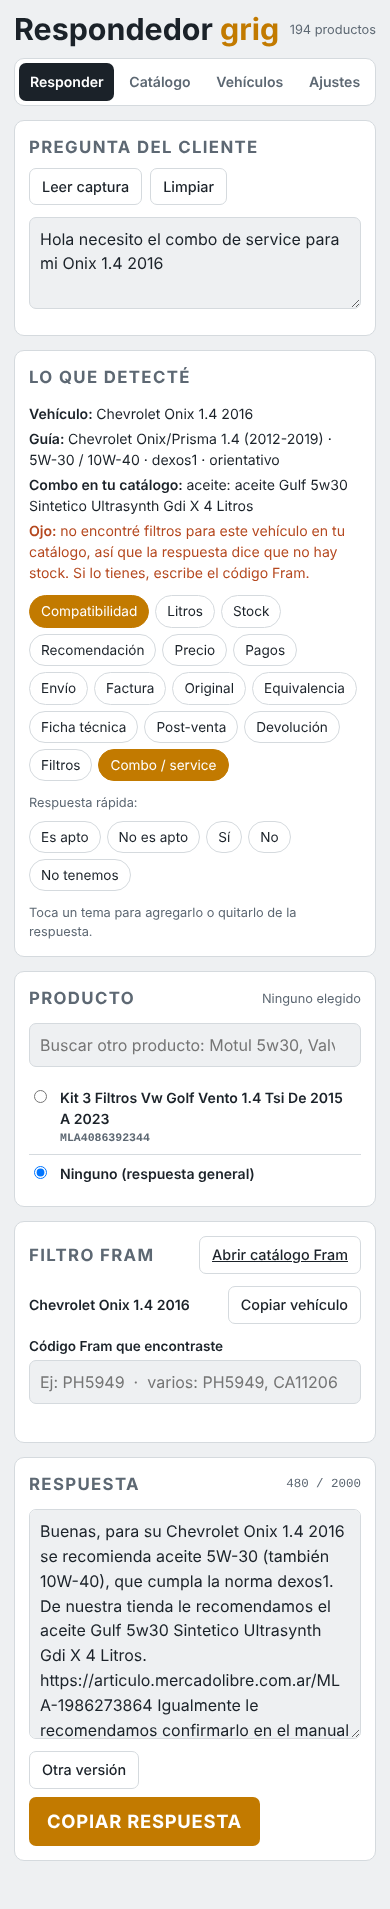
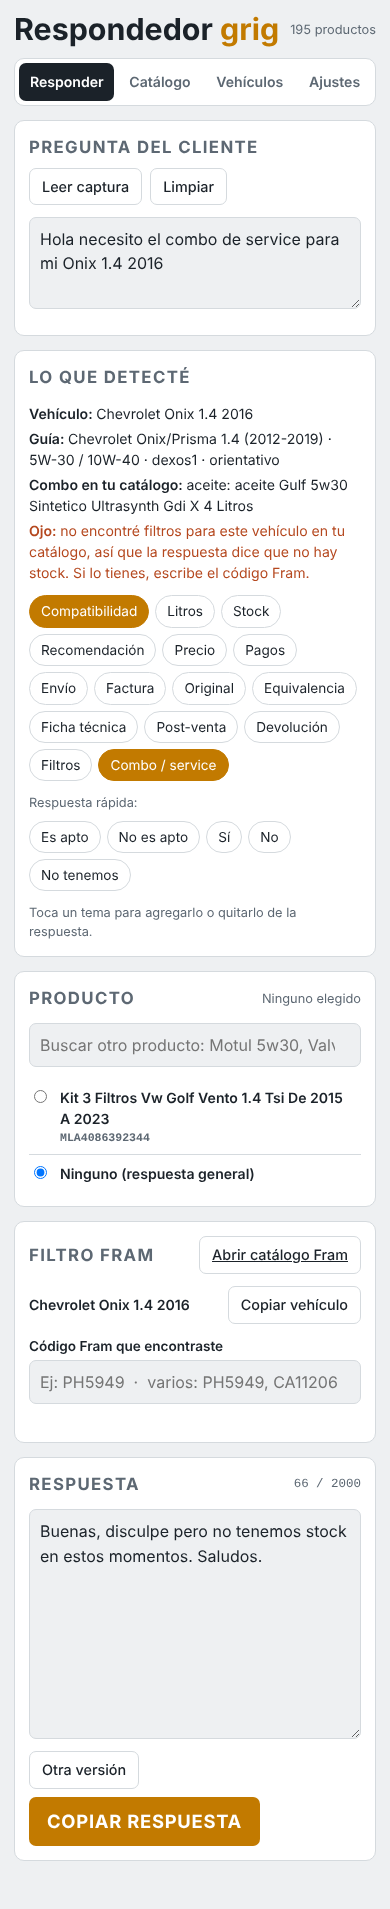
Respuesta única cuando no hay el producto: 'Buenas, disculpe pero no tenemos stock en estos momentos. Saludos.'
Se usa para marcas que no se venden, presentaciones que no existen, filtros que
no están en el catálogo con todos los datos del vehículo, códigos Fram no
publicados y el botón 'No tenemos'.

Claude-Session: https://claude.ai/code/session_019EL6JgXRSoakvXpns3krCf

Changed region(s): [[0.0923, 0.7727, 0.8615, 0.9272], [0.8615, 0.8963, 0.8923, 0.9272], [0.7692, 0.8963, 0.8, 0.9272]]

diff --git a/index.html b/index.html
@@ -483,12 +483,12 @@ const Engine = (() => {
   }
 
   // ---- Redacción de la respuesta
-  const TU = [["podés", "puedes"], ["tenés", "tienes"], ["indicás", "indicas"], ["querés", "quieres"], ["pasás", "pasas"], ["necesitás", "necesitas"],
+  const TU = [["disculpá", "disculpa"], ["podés", "puedes"], ["tenés", "tienes"], ["indicás", "indicas"], ["querés", "quieres"], ["pasás", "pasas"], ["necesitás", "necesitas"],
     ["indicanos", "indícanos"], ["pasanos", "pásanos"], ["consultanos", "consúltanos"], ["avisanos", "avísanos"], ["cargá", "carga"], ["fijate", "fíjate"],
     ["elegí", "elige"], ["vas a necesitar", "necesitarás"], ["contás", "cuentas"], ["escribinos", "escríbenos"], ["sumá", "suma"]];
   // Trato de usted, como responde la tienda ("su vehículo", "me podría indicar")
   const USTED = [["vas a necesitar", "va a necesitar"], ["nos confirmás", "nos confirma"], ["nos decís", "nos dice"], ["nos pasás", "nos pasa"], ["nos indicás", "nos indica"],
-    ["podés", "puede"], ["tenés", "tiene"], ["indicás", "indica"], ["querés", "quiere"], ["pasás", "pasa"], ["necesitás", "necesita"], ["contás", "cuenta"],
+    ["disculpá", "disculpe"], ["podés", "puede"], ["tenés", "tiene"], ["indicás", "indica"], ["querés", "quiere"], ["pasás", "pasa"], ["necesitás", "necesita"], ["contás", "cuenta"],
     ["confirmás", "confirma"], ["decís", "dice"], ["indicanos", "indíquenos"], ["pasanos", "pásenos"], ["consultanos", "consúltenos"], ["avisanos", "avísenos"],
     ["escribinos", "escríbanos"], ["cargá", "cargue"], ["fijate", "fíjese"], ["elegí", "elija"], ["sumá", "sume"], ["podrías", "podría"],
     ["te asesoramos", "lo asesoramos"], ["indicarte", "indicarle"], ["confirmarte", "confirmarle"], ["asesorarte", "asesorarlo"], ["ayudarte", "ayudarlo"], ["te", "le"], ["tu", "su"], ["tus", "sus"]];
@@ -697,17 +697,20 @@ const Engine = (() => {
       return text;
     };
     const who = veh && veh.model ? "tu " + veh.label : "tu vehículo";
+    // Cuando no hay el producto, la tienda responde siempre lo mismo
+    const noStock = () => { out.length = 1; out.push("Disculpá pero no tenemos stock en estos momentos."); return finish(); };
     // Respuesta rápida elegida por el vendedor (como "Buenas, sí es apto para su vehículo. Saludos")
     if (verdict === "apto") { out.push("Sí, es apto para " + who + "."); return finish(); }
     if (verdict === "noapto") { out.push("No es apto para " + who + "." + (combo.oil ? " Te recomendamos el " + prodName(combo.oil.t) + "." + lk(combo.oil) : "")); return finish(); }
     if (verdict === "si") { out.push("Sí."); return finish(); }
     if (verdict === "no") { out.push("No."); return finish(); }
-    if (verdict === "notenemos") { out.push("No tenemos."); return finish(); }
+    if (verdict === "notenemos") return noStock();
     // Marca que la tienda no trabaja (ej. "¿venden Mopar 5-30?")
-    if (noBrand) { out.push("No tenemos " + noBrand.name + "." + (noBrand.alt ? " Te ofrecemos el " + prodName(noBrand.alt.t) + ", que es " + fmtVisc(viscOf(noBrand.alt.t)[0]) + "." + lk(noBrand.alt) : "")); return finish(); }
+    if (noBrand) return noStock();
     // Mismo producto en otro tamaño (ej. "¿lo tenés en 1 litro?")
     if (variant) {
-      out.push(variant.it ? "Te paso el link." + (lk(variant.it) || " " + prodName(variant.it.t) + ".") : "Por el momento no tenemos esa presentación.");
+      if (!variant.it) return noStock();
+      out.push("Te paso el link." + (lk(variant.it) || " " + prodName(variant.it.t) + "."));
       return finish();
     }
     // Pregunta técnica: viscosidad del producto o su ficha guardada
@@ -771,8 +774,9 @@ const Engine = (() => {
       else { const a = askData(); if (a) out.push(a); }
     }
 
+    if (fram.length && !fram.some((f) => f.it)) return noStock();
     if (fram.length) {
-      fram.forEach((f, i) => {
+      fram.filter((f) => f.it).forEach((f, i) => {
         const head = i === 0 && veh && veh.model ? "Para tu " + veh.label + " el filtro" : "El filtro";
         let t = head + (f.cat ? " de " + f.cat : "") + " que corresponde es el Fram " + f.code + ".";
         if (f.it) { const l = lk(f.it); t += l ? " Podés agregarlo al carrito desde acá:" + l : " Lo tenemos disponible."; }
@@ -788,8 +792,8 @@ const Engine = (() => {
         asked = true;
         const miss = [!veh.year && "año", !(veh.engine || /\d+cc/.test(veh.label)) && "motor"].filter(Boolean).join(" y ");
         // Con todos los datos y sin filtro en el catálogo: se avisa que no hay stock
-        out.push(!miss ? "En este momento no contamos con stock del filtro para tu " + veh.label + "."
-          : "¿Me podrías indicar el " + miss + " de tu " + veh.label + "?");
+        if (!miss) return noStock();
+        out.push("¿Me podrías indicar el " + miss + " de tu " + veh.label + "?");
       }
       if (prod && !isFilter && !vehTalk && pv && gv && pv === gv) out.push("Además, el " + P + " es " + fmtVisc(pv) + ", ideal para tu " + veh.label + "." + lk(prod));
     } else if (intents.has("equivalencia") || (intents.has("filtros") && !isFilter)) {
